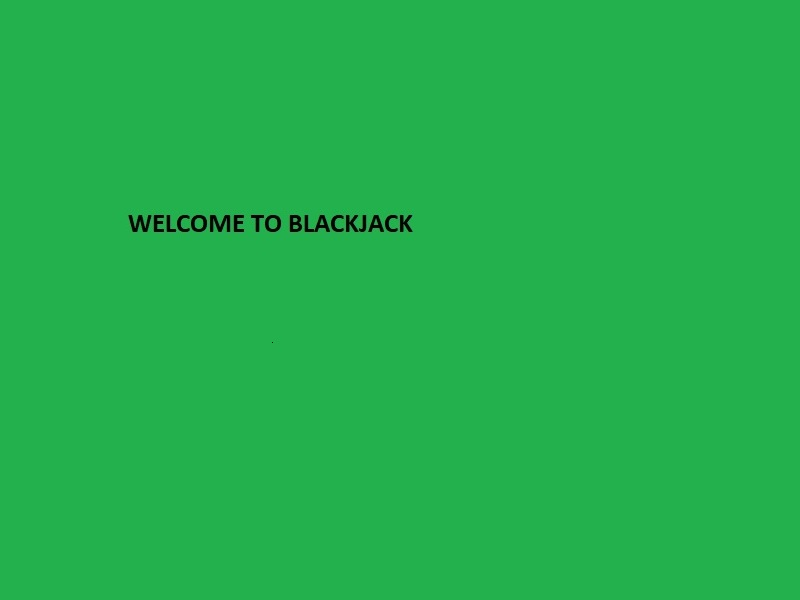
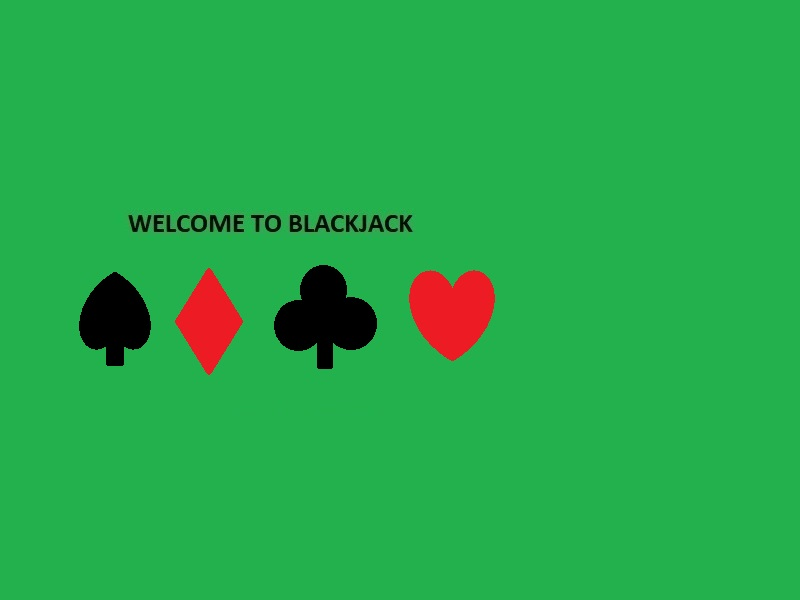
Betting screen
New image for betting

diff --git a/src/blackjack2/View.java b/src/blackjack2/View.java
@@ -227,6 +227,9 @@ public class View extends JFrame implements Observer {
         //        bottomCardPanel.setLayout(new GridLayout(1,6));
         
         leaderboardPanel = new JPanel();
+        Color colour = new Color(34, 177, 76);
+        leaderboardPanel.setBackground(colour);
+        
 //        leaderboardPanel.setLayout(new BoxLayout(leaderboardPanel, BoxLayout.Y_AXIS));
         leaderboardPanel.setLayout(new GridLayout(6,3));
         JLabel temp1 = new JLabel("");

diff --git a/src/blackjack2/BettingPanel.java b/src/blackjack2/BettingPanel.java
@@ -20,9 +20,9 @@ public class BettingPanel extends JPanel{
         
         public BettingPanel()
         {
-            setPreferredSize(new Dimension(800, 600));
+            setPreferredSize(new Dimension(600, 600));
 //            setBackground(Color.WHITE);
-            this.image = new ImageIcon("./resources/money.jpg").getImage();
+            this.image = new ImageIcon("./resources/betting.jpg").getImage();
         }
         
         @Override
